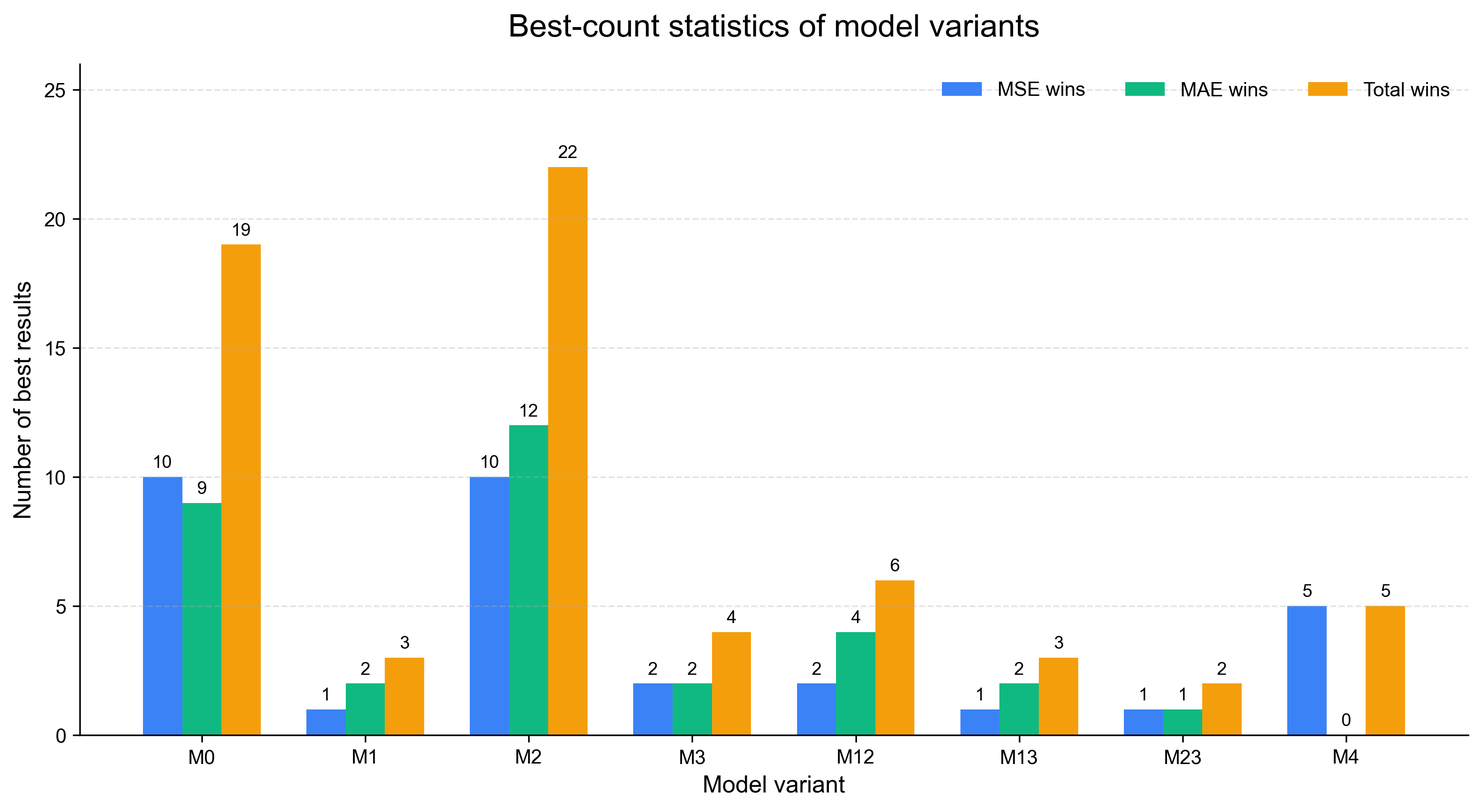
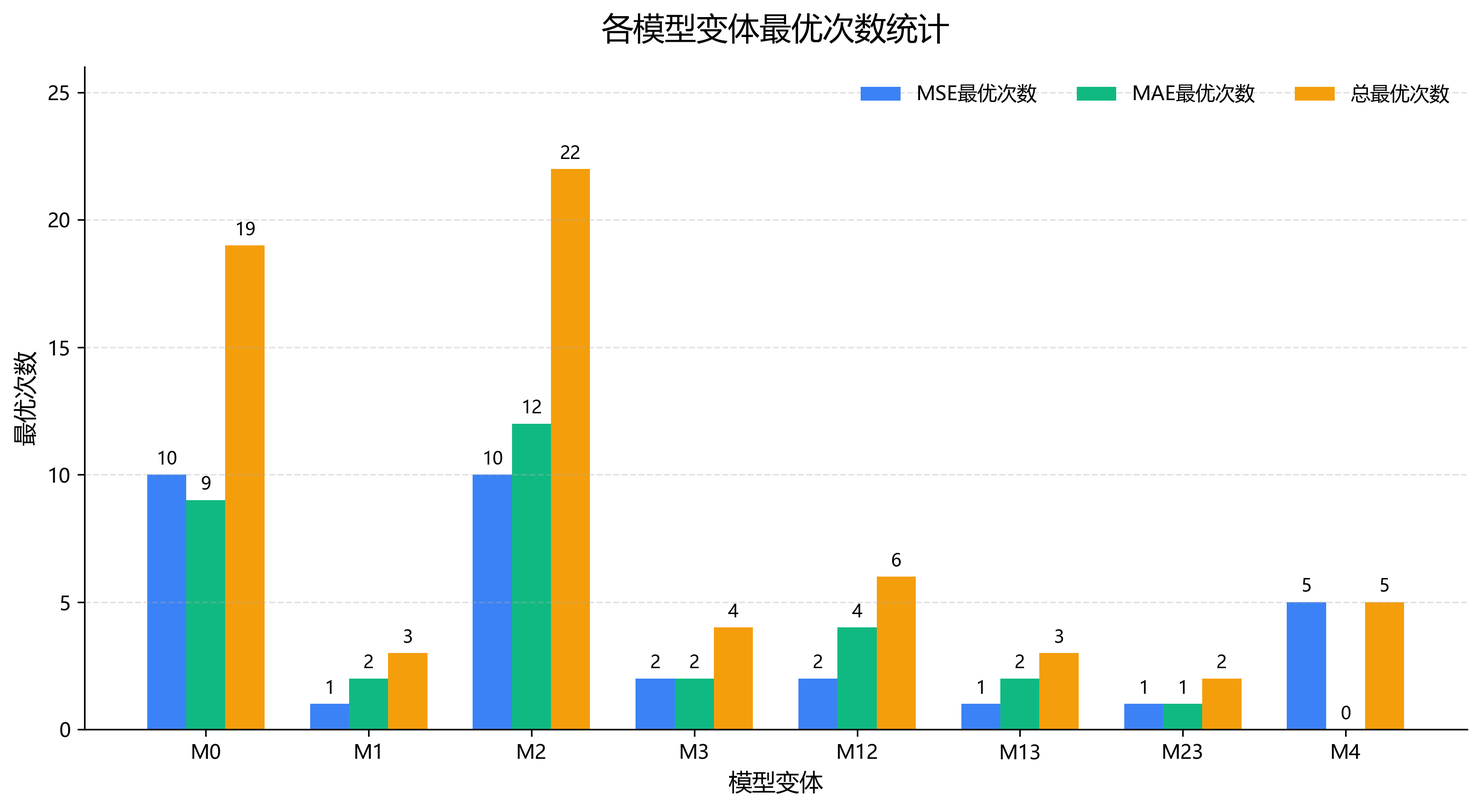
Polish thesis draft for review

diff --git a/pages/method.tex b/pages/method.tex
@@ -6,11 +6,9 @@
 \section{改进模型总体框架}
 \esection{Overall Framework}
 
-本文的改进工作以原始 TimeMixer 为基础，不重新设计一套完全不同的预测框架，而是在原有多尺度分解混合结构上进行局部增强。这样做的原因有两点：一方面，TimeMixer 本身已经具有较好的轻量化特点和多尺度建模能力；另一方面，局部改进便于通过消融实验分析每个模块的作用，更符合本科毕业设计中“实现、验证、分析”的要求。
+本文以 TimeMixer 的多尺度分解混合结构为基础，围绕下采样、序列分解和变量交互三个关键环节进行增强。该设计保留了原模型轻量化和多尺度建模的优势，同时便于在统一框架下比较不同结构模块对预测性能的影响。
 
 本文将改进方向概括为三个模块。第一个模块是深度可分离卷积下采样，记为 A，用于替代原始模型中的平均池化下采样。第二个模块是多核门控分解，记为 B，用于替代单一固定窗口的滑动平均分解。第三个模块是通道混合，记为 C，用于在通道独立建模之前引入一次变量间信息交互。三个模块分别对应原始模型中的多尺度构建、序列分解和变量处理环节。
-
-从代码实现角度看，本文尽量保持原项目结构不变。深度可分离卷积下采样模块、多核门控分解模块和通道混合模块分别接入下采样、分解和多尺度输入处理环节。三个模块均通过命令行参数控制，分别对应 \texttt{conv\_ds}、\texttt{multi\_gated} 和 \texttt{channel\_mixing} 开关。这样既避免维护多份模型代码，也方便构造不同消融变体。
 
 本文改进模型的整体流程可以概括为：首先根据下采样参数构建多尺度输入序列；随后对各尺度序列分别进行归一化，并在启用通道混合时，于通道独立拆分和嵌入之前进行一次浅层变量交互；接着在各尺度上进行趋势项和季节项分解，并通过 TimeMixer 原有的跨尺度混合结构传播不同尺度的信息；最后由未来多尺度预测融合模块得到输出结果。本文三个改进模块均嵌入在上述流程中，而不是改变预测任务的输入输出形式，因此 M0 与各改进变体之间具有较好的可比性。
 
@@ -21,20 +19,20 @@
     \label{fig:improved_framework}
 \end{figure}
 
-为便于说明论文方法与代码实现之间的对应关系，表 \ref{tab:module_code_mapping} 给出了三个改进模块的主要接入位置和控制参数。需要说明的是，表中的文件路径按照当前项目结构记录，后续如果代码目录移动，应以实际目录为准。
+表 \ref{tab:module_code_mapping} 概括了三个改进模块在模型流程中的作用。三个模块分别对应多尺度构建、趋势/季节分解和多变量输入处理三个环节，后续消融实验将围绕这些模块展开。
 
 \begin{table}[htbp]
     \centering
-    \caption{改进模块与代码实现对应关系}
+    \caption{改进模块功能对应关系}
     \label{tab:module_code_mapping}
     \resizebox{\textwidth}{!}{%
     \begin{tabular}{cccl}
         \toprule
-        模块 & 接入环节 & 控制参数 & 主要作用 \\
+        模块 & 对应环节 & 改进方式 & 主要作用 \\
         \midrule
-        深度可分离卷积下采样 & 多尺度构建 & \texttt{--down\_sampling\_method conv\_ds} & 替代平均池化下采样 \\
-        多核门控分解 & 趋势/季节分解 & \texttt{--decomp\_method multi\_gated} & 使用多窗口自适应估计趋势项 \\
-        通道混合 & 多尺度输入处理 & \texttt{--channel\_mixing 1} & 在通道独立拆分前引入变量交互 \\
+        深度可分离卷积下采样 & 多尺度构建 & 可学习卷积下采样 & 提升下采样过程的局部特征提取能力 \\
+        多核门控分解 & 趋势/季节分解 & 多窗口趋势估计与门控融合 & 增强分解模块对不同周期尺度的适应性 \\
+        通道混合 & 多变量输入处理 & 低秩残差映射 & 在通道独立建模前引入变量间信息交互 \\
         \bottomrule
     \end{tabular}}
 \end{table}
@@ -67,10 +65,11 @@
 
 原始 TimeMixer 使用滑动平均分解序列，将输入拆分为季节项和趋势项。固定窗口滑动平均可以得到较稳定的趋势估计，但窗口大小一旦确定，就难以同时兼顾短期波动和长期趋势。实际数据中，不同数据集的周期结构差异明显，即使在同一数据集中，不同时间段的变化尺度也可能不同。
 
-为增强分解模块的适应能力，本文提出多核门控分解模块。该模块并行使用多个移动平均窗口，当前旧版基准代码中窗口大小为 $(3,11,37)$。对于输入序列 $\mathbf{X}$，首先通过三个不同窗口得到趋势候选：
+为增强分解模块的适应能力，本文提出多核门控分解模块。该模块并行使用多个移动平均窗口，窗口大小为 $(3,11,37)$。对于输入序列 $\mathbf{X}$，首先通过三个不同窗口得到趋势候选：
 \begin{equation}
     \mathbf{T}_j = \mathrm{AvgPool}_{k_j}(\mathbf{X}), \quad k_j \in \{3,11,37\}.
 \end{equation}
+此处 $\mathrm{AvgPool}$ 表示步长为 1、输出长度保持不变的滑动平均操作，用于趋势提取，不用于降低时间分辨率。
 随后，模块对每个样本在时间维和变量维上求全局均值，得到样本级标量特征，并由线性层和 Softmax 生成对应的门控权重：
 \begin{equation}
     \boldsymbol{\alpha}^{(b)} = \mathrm{softmax}(\mathbf{W}\cdot \mathrm{Mean}_{T,C}(\mathbf{X}^{(b)})+\mathbf{b}),
@@ -84,7 +83,7 @@
     \mathbf{S}^{(b)} = \mathbf{X}^{(b)} - \mathbf{T}^{(b)}.
 \end{equation}
 
-该模块的特点是结构较轻，只在原有移动平均分解基础上增加了多窗口并行和一个小型门控网络。代码中门控线性层采用零初始化，使训练初期不同窗口权重接近均匀分布，从而减少对原始模型训练动态的扰动。在旧版实现中，\texttt{multi\_gated} 既用于进入编码器前的预分解，也用于 Past-Decomposable-Mixing 模块内部的分解环节。与固定单窗口相比，多核门控分解能够根据样本级输入特征调整不同尺度趋势估计的贡献，因此更适合处理周期结构复杂的数据。后续实验表明，M2 是本文表现最稳定的改进模块。
+该模块的特点是结构较轻，只在原有移动平均分解基础上增加了多窗口并行和一个小型门控网络。门控层初始化时使不同窗口权重接近均匀分布，从而减少新增模块对训练初期模型状态的扰动。与固定单窗口相比，多核门控分解能够根据样本级输入特征调整不同尺度趋势估计的贡献，因此更适合处理周期结构复杂的数据。该模块的具体效果将在第 4 章通过 M2 变体进行验证。
 
 \begin{figure}[htbp]
     \centering
@@ -102,13 +101,14 @@
 \begin{equation}
     \tilde{\mathbf{X}} = \mathbf{X} + f_{cm}(\mathbf{X}),
 \end{equation}
+实现时，该 MLP 作用在变量维度 $C$ 上，即对每个时间步的变量向量进行低秩映射。
 其中
 \begin{equation}
     f_{cm}(\mathbf{X}) = \mathbf{W}_2 \cdot \mathrm{GELU}(\mathbf{W}_1 \mathbf{X}).
 \end{equation}
-在实现中，第一层线性映射将变量维度从 \texttt{enc\_in} 降到 $\min(64,\mathrm{enc\_in})$，第二层再映射回原变量维度。这样可以在控制参数量的同时完成一次变量间信息交换。
+具体而言，第一层线性映射将变量维度从 $C$ 降到 $\min(64,C)$，第二层再映射回原变量维度。这样可以在控制参数量的同时完成一次变量间信息交换。
 
-通道混合层采用残差形式，目的是避免新增模块对原始输入造成过强扰动。代码中最后一层线性层也采用零初始化，使训练开始时该模块近似恒等映射。需要说明的是，本文通道混合只在多尺度输入进入主干前进行一次浅层交互，因此它的建模能力有限。第 4 章实验显示，该模块在部分场景中有效，但整体稳定性不如多核门控分解。
+通道混合层采用残差形式，目的是避免新增模块对原始输入造成过强扰动。初始化时，残差分支输出接近于零，使训练开始时该模块近似恒等映射。需要说明的是，本文通道混合只在多尺度输入进入主干前进行一次浅层交互，因此它的建模能力有限。第 4 章实验显示，该模块在部分场景中有效，但整体稳定性不如多核门控分解。
 
 \begin{figure}[htbp]
     \centering
@@ -120,7 +120,7 @@
 \section{模型变体与消融设计}
 \esection{Model Variants and Ablation Design}
 
-为了分析三个模块的独立贡献和组合效果，本文构造了 8 个模型变体，如表 \ref{tab:variants} 所示。其中 M0 表示本文自跑的原始 TimeMixer 基线模型，M1、M2、M3 分别表示只加入一个模块，M12、M13、M23 表示两两组合，M4 表示三个模块全部加入。
+为了分析三个模块的独立贡献和组合效果，本文构造了 8 个模型变体，如表 \ref{tab:variants} 所示。其中 M0 表示 TimeMixer 基线模型，M1、M2、M3 分别表示只加入一个模块，M12、M13、M23 表示两两组合，M4 表示三个模块全部加入。
 
 \begin{table}[htbp]
     \centering
@@ -130,7 +130,7 @@
         \toprule
         变体 & 深度可分离下采样A & 多核门控分解B & 通道混合C & 含义 \\
         \midrule
-        M0 & 否 & 否 & 否 & 自跑 TimeMixer 基线 \\
+        M0 & 否 & 否 & 否 & TimeMixer 基线 \\
         M1 & 是 & 否 & 否 & 仅替换下采样 \\
         M2 & 否 & 是 & 否 & 仅替换分解模块 \\
         M3 & 否 & 否 & 是 & 仅加入通道混合 \\

diff --git a/pages/conclusion.tex b/pages/conclusion.tex
@@ -6,23 +6,25 @@
 \section{本文工作总结}
 \esection{Summary}
 
-本文围绕时序数据预测任务，对轻量级多尺度模型 TimeMixer 进行了结构改进与实验分析。原始 TimeMixer 通过多尺度序列构建、趋势季节分解和跨尺度混合实现预测，具有较好的效率和结构优势。但通过分析其代码和模型流程可以发现，原始模型仍存在平均池化下采样可能丢失高频信息、固定窗口分解难以适应复杂周期变化、通道独立策略忽略变量间相关性等问题。
+本文围绕时序数据预测任务，对轻量级多尺度模型 TimeMixer 进行了结构改进与实验分析。原始 TimeMixer 通过多尺度序列构建、趋势季节分解和跨尺度混合实现预测，具有较好的效率和结构优势。但从模型流程和任务特点看，原始模型仍存在平均池化下采样可能丢失高频信息、固定窗口分解难以适应复杂周期变化、通道独立策略忽略变量间相关性等问题。
 
 针对上述问题，本文主要完成了三方面工作。第一，设计并实现了深度可分离卷积下采样模块，用可学习卷积替代固定平均池化，使模型在构建多尺度序列时具有一定的自适应特征选择能力。第二，设计并实现了多核门控分解模块，使用 $(3,11,37)$ 三个不同窗口并行提取趋势估计，再根据样本级全局均值特征生成门控权重并融合不同尺度结果。第三，在多尺度序列进入通道独立建模前加入低秩 MLP 形式的通道混合模块，使模型在保持轻量化的同时具备一定变量间信息交互能力。
 
-实验部分，本文构造了 M0、M1、M2、M3、M12、M13、M23 和 M4 共 8 个模型变体，在 ETTh1、ETTh2、ETTm1、ETTm2、Weather、ECL、Traffic 和 Solar 8 个公开数据集上进行实验，预测长度包括 96、192、336 和 720。其中，M0 是本文自跑的 TimeMixer 基线，M1 是只加入深度可分离卷积下采样模块的消融变体。实验结果表明，多核门控分解模块 M2 是整体最稳定的改进，在 64 个评价场景中取得 22 次最优；原始模型 M0 仍然具有较强竞争力，取得 19 次最优；深度可分离下采样和通道混合模块具有一定局部作用，但整体稳定性不足；完整模型 M4 结构最完整，但并未在所有场景下取得最优。
+实验部分，本文构造了 M0、M1、M2、M3、M12、M13、M23 和 M4 共 8 个模型变体，在 ETTh1、ETTh2、ETTm1、ETTm2、Weather、ECL、Traffic 和 Solar 8 个公开数据集上进行实验，预测长度包括 96、192、336 和 720。在固定随机种子 2021、实验重复次数为 1 的设置下，M2 在 64 个 MSE/MAE 评价项中取得 22 次最优，M0 取得 19 次，M4 取得 5 次；M1 和 M3 分别取得 3 次和 4 次最优。该结果说明，多核门控分解在本文实验中贡献最集中，而完整模型 M4 并未因包含全部模块而取得最多最优项。
 
-此外，本文还根据 TimeMixer 原论文长预测结果图整理了外部模型参考对比。外部对比部分没有使用原图中的 TimeMixer 列，而是采用本文自跑的 M0 作为 TimeMixer 基线，并与 PatchTST、Autoformer、DLinear、TimesNet、FEDformer 和 Crossformer 等模型进行平均结果比较。该部分主要用于说明本文实验结果在常见模型中的大致位置，不等同于重新公平复现所有外部模型。
+此外，本文将内部变体结果与 PatchTST、Autoformer、DLinear、TimesNet、FEDformer 和 Crossformer 等模型的公开结果进行了平均结果比较。由于外部结果的训练环境和部分实验设置不由本文统一控制，该部分仅用于观察本文结果在常见模型中的相对位置。
 
-总体来看，本文工作验证了改进分解机制对 TimeMixer 的重要性，也说明轻量级时间序列预测模型的结构改进需要通过消融实验进行具体分析。不同模块之间可能存在耦合关系，简单叠加并不一定带来稳定提升。本文的实验结论较为克制，但能够较完整地反映本次毕业设计中模型实现、实验验证、外部参考对比和应用场景分析的过程。
+总体来看，本文工作表明，改进 TimeMixer 的分解环节比单纯替换下采样或增加浅层通道混合更能集中改善本文实验中的预测结果。不同模块之间存在耦合关系，简单叠加并不一定带来更低误差；这一点也体现了完整消融实验对结构改进分析的必要性。
 
 \section{不足与展望}
 \esection{Limitations and Future Work}
 
-本文仍存在一些不足。首先，深度可分离卷积下采样模块虽然增强了下采样的学习能力，但实验结果显示其稳定性不足。对于较平滑的数据，平均池化的平滑作用可能反而更有利；对于噪声较大的数据，可学习卷积也可能保留不必要的扰动。后续可以考虑在卷积下采样中加入更明确的平滑约束，或者根据数据特征自适应选择下采样方式。
+本文仍存在一些不足。首先，深度可分离卷积下采样模块虽然增强了下采样的学习能力，但 M1 在 64 个评价项中只取得 3 次最优。对于较平滑的数据，平均池化的平滑作用可能反而更有利；对于噪声较大的数据，可学习卷积也可能保留不必要的扰动。后续可以考虑在卷积下采样中加入更明确的平滑约束，或者根据数据特征自适应选择下采样方式。
 
 其次，通道混合模块目前只在多尺度序列进入通道独立建模前进行一次浅层变量交互，表达能力有限。对于变量数较多且变量关系复杂的数据集，仅使用一个低秩 MLP 可能不足以充分建模变量之间的依赖关系。后续可以尝试分层通道混合、注意力式变量选择或图结构建模等方法，但也需要注意控制模型复杂度。
 
-再次，多核门控分解模块虽然表现最稳定，但当前窗口大小采用固定设置 $(3,11,37)$，尚未系统分析不同窗口组合对性能的影响。后续可以围绕短窗口、中窗口和长窗口组合开展参数敏感性实验，例如比较 $(3,7,15)$、$(3,11,37)$ 和 $(5,25,49)$ 等设置，以进一步说明窗口大小与数据周期结构之间的关系。
+再次，多核门控分解模块虽然在本文设置下取得最多最优项，但窗口大小仍采用固定设置 $(3,11,37)$，尚未系统分析不同窗口组合对性能的影响。后续可以围绕短窗口、中窗口和长窗口组合开展参数敏感性实验，例如比较 $(3,7,15)$、$(3,11,37)$ 和 $(5,25,49)$ 等设置，以进一步说明窗口大小与数据周期结构之间的关系。
 
-最后，本文实验主要围绕公开数据集和消融分析展开，还没有进一步分析模型参数量、训练时间和显存占用等效率指标。旧版基准代码训练过程会打印单轮训练耗时和迭代速度，但结果文件中没有保存完整的效率统计表，因此本文没有单独报告效率实验结果。由于 TimeMixer 本身强调轻量化，后续若要更全面评价改进模型，应补充参数量、训练时间、推理耗时和显存占用等对比。同时，本文外部模型对比主要基于原论文结果图整理得到，后续如果条件允许，可以在统一代码环境下重新复现更多 baseline。除此之外，还可以在更多真实业务数据上验证模型泛化能力，使研究结论更接近实际应用需求。
+此外，本文各实验设置仅在固定随机种子下运行一次，尚未统计多随机种子下的均值和方差，因此对模型稳定性的判断主要基于当前实验设置，后续可补充多次重复实验以提高结论可靠性。
+
+最后，本文实验主要围绕公开数据集和消融分析展开，对模型参数量、训练时间、推理耗时和显存占用等效率指标的系统比较仍不充分。由于 TimeMixer 本身强调轻量化，后续若要更全面评价改进模型，应在统一环境下补充效率指标对比。同时，本文外部模型对比主要基于原论文公开结果，后续如果条件允许，可以在统一实验条件下重新复现更多 baseline。除此之外，还可以在更多真实业务数据上验证模型泛化能力，使研究结论更接近实际应用需求。

diff --git a/pages/meta.tex b/pages/meta.tex
@@ -61,11 +61,11 @@
 
 本文主要完成了三个方面的工作。首先，设计了深度可分离卷积下采样模块，以可学习卷积替代固定平均池化，使模型在构建多尺度序列时能够更灵活地保留局部关键特征。其次，提出了多核门控分解模块，并行使用多个不同窗口大小的滑动平均操作提取趋势信息，再根据样本级全局均值特征生成门控权重，融合不同尺度的分解结果，以增强模型对多周期模式的适应能力。最后，引入低秩 MLP 形式的通道混合模块，在多尺度序列进入通道独立建模前进行浅层变量交互，从而在保持模型轻量化的同时增强变量间信息利用能力。
 
-实验部分在 ETTh1、ETTh2、ETTm1、ETTm2、Weather、ECL、Traffic 和 Solar 等 8 个公开数据集上进行，预测长度设置为 96、192、336 和 720，评价指标采用 MSE 和 MAE。为分析不同模块的作用，本文以自跑 TimeMixer 结果 M0 作为基线，构造了 M1、M2、M3、M12、M13、M23 和 M4 等改进变体，完成了全组合消融实验，并结合公开整理结果补充了外部模型参考对比。实验结果表明，多核门控分解模块 M2 的综合表现最稳定，在多个数据集和预测长度上取得较好结果，是本文最主要的有效改进。深度可分离下采样和通道混合模块在部分场景中具有一定效果，但整体稳定性不足。完整模型 M4 并未在所有场景下取得最优，说明不同改进模块之间存在一定耦合关系。本文工作验证了多尺度混合增强思路在时序数据预测模型改进中的作用，也为后续轻量级预测模型的结构优化和应用分析提供了参考。}
+实验部分在 ETTh1、ETTh2、ETTm1、ETTm2、Weather、ECL、Traffic 和 Solar 等 8 个公开数据集上进行，预测长度设置为 96、192、336 和 720，评价指标采用 MSE 和 MAE。为分析不同模块的作用，本文以 TimeMixer 基线模型 M0 作为对照，构造了 M1、M2、M3、M12、M13、M23 和 M4 等改进变体，完成了全组合消融实验，并引入 TimeMixer 原论文公开结果，与多类典型时序预测模型进行参考性对比。在固定随机种子 2021、实验重复次数为 1 的设置下，M2 在 64 个 MSE/MAE 评价项中取得 22 次最优，M0 取得 19 次，M4 取得 5 次。结果表明，多核门控分解对 Traffic、ECL 等周期结构较复杂的数据更有帮助；深度可分离下采样和通道混合在部分场景中取得较好结果，但跨数据集表现波动较大；完整模型 M4 并未因包含全部模块而取得最多最优项。本文工作从实验角度分析了多尺度混合增强在时序预测模型中的作用，并揭示了不同改进模块之间可能存在的耦合影响。}
 
 % 摘要，英文。段间空行
 \eabstract{Time series forecasting is an important task in data analysis and has been widely used in electric load scheduling, traffic flow management, weather forecasting, and other real-world applications. TimeMixer is a lightweight multi-scale forecasting model that achieves a good balance between prediction accuracy and computational efficiency through multi-scale decomposition and mixing. However, the original TimeMixer still has several limitations. Average pooling used in the down-sampling stage may smooth out high-frequency information, fixed-window decomposition is not flexible enough to handle complex periodic patterns, and the channel-independent strategy ignores correlations among variables. To address these issues, this thesis enhances the TimeMixer model from the perspective of multi-scale mixing and analyzes the effects of different modules through experiments.
 
 The main work of this thesis includes three parts. First, a depthwise-separable convolution down-sampling module is designed to replace fixed average pooling with learnable convolutional operations, so that the model can preserve local key features more flexibly when constructing multi-scale sequences. Second, a multi-kernel gated decomposition module is proposed. It uses multiple moving-average kernels with different window sizes in parallel and generates sample-level gating weights from the global mean feature of each input sample, thereby fusing decomposition results at different scales. Third, a low-rank MLP-based channel mixing module is introduced before channel-independent modeling of multi-scale sequences to enhance interactions among variables while maintaining the lightweight structure of the model.
 
-Experiments are conducted on eight public datasets from ETT, Weather, ECL, Traffic, and Solar. The prediction lengths are set to 96, 192, 336, and 720, and MSE and MAE are used as evaluation metrics. In this thesis, M0 denotes the TimeMixer baseline obtained in this work, while M1, M2, M3, M12, M13, M23, and M4 denote different ablation variants with one or more improvement modules. In addition to the internal ablation study, external baseline results from the reproduced results of the TimeMixer paper are used as a reference comparison, but the TimeMixer column in that file is not used; the TimeMixer baseline of this thesis is always the self-run M0 result. The experimental results show that the multi-kernel gated decomposition module, namely M2, achieves the most stable overall performance and is the most effective improvement in this work. The depthwise-separable down-sampling module and the channel mixing module are useful in some cases but are less stable across all datasets. The complete model M4 does not always achieve the best performance, indicating that there may be coupling effects among different modules. This work verifies the value of multi-scale mixing enhancement for time series forecasting models and provides a useful reference for further model optimization and application analysis.}
+Experiments are conducted on eight public datasets from ETT, Weather, ECL, Traffic, and Solar. The prediction lengths are set to 96, 192, 336, and 720, and MSE and MAE are used as evaluation metrics. In this thesis, M0 denotes the TimeMixer baseline, while M1, M2, M3, M12, M13, M23, and M4 denote different ablation variants with one or more improvement modules. Public results reported in the TimeMixer paper are further introduced as reference comparisons with several representative forecasting models. Under the setting of a fixed random seed 2021 and one experimental run, M2 obtains the best result in 22 out of 64 MSE/MAE evaluation items, while M0 and M4 obtain 19 and 5 best results, respectively. The results indicate that multi-kernel gated decomposition is more helpful for datasets with complex periodic patterns, such as Traffic and ECL. The depthwise-separable down-sampling and channel mixing modules perform well in some cases, but their results fluctuate more across datasets. The complete model M4 does not achieve the largest number of best results, suggesting possible coupling effects among the modules.}

diff --git a/pages/appendice.tex b/pages/appendice.tex
@@ -1,9 +1,14 @@
-% appendice.tex
+% appendice.tex
+
+\xjtuappendixchapter{实验环境补充说明}
+\xjtuappendixechapter{Additional Experimental Environment}
+
+本文主要实验在 AutoDL 云平台的 NVIDIA GeForce RTX 4090 D GPU 环境下完成，软件环境包括 Python 3.10.8、PyTorch 2.1.2+cu121\cite{paszke2019pytorch} 和 CUDA 12.1。GPU 显存为 24564 MiB，驱动版本为 570.124.04，操作系统内核为 Linux 5.15.0-60-generic。上述环境信息用于补充说明实验条件，正文中仅保留与结果分析直接相关的主要设置。
 
 \xjtuappendixchapter{外部模型对比明细}
 \xjtuappendixechapter{External Baseline Details}
 
-本附录给出外部模型在不同预测长度下的 MSE/MAE 明细。数据来源为 TimeMixer 原论文长预测结果图。根据本文实验口径，原图中的 TimeMixer 列不纳入本文表格；本文 TimeMixer 基线统一采用正文中的自跑 M0 结果。表中数值越低表示预测效果越好。
+本附录列出外部模型在不同预测长度下的 MSE/MAE 参考结果。相关数据来源于 TimeMixer 原论文公开结果，用于补充正文中的参考性对比。
 
 \begin{table}[htbp]
     \centering
@@ -18,7 +23,7 @@
         192 & 0.234/0.265 & 0.307/0.367 & 0.237/0.295 & 0.219/0.261 & 0.276/0.336 & 0.209/0.277 \\
         336 & 0.284/0.301 & 0.359/0.395 & 0.282/0.331 & 0.246/0.337 & 0.339/0.380 & 0.273/0.332 \\
         720 & 0.356/0.349 & 0.419/0.428 & 0.345/0.382 & 0.365/0.359 & 0.403/0.428 & 0.379/0.401 \\
-        Avg & 0.265/0.285 & 0.338/0.382 & 0.265/0.315 & 0.251/0.294 & 0.309/0.360 & 0.264/0.320 \\
+        平均 & 0.265/0.285 & 0.338/0.382 & 0.265/0.315 & 0.251/0.294 & 0.309/0.360 & 0.264/0.320 \\
         \bottomrule
     \end{tabular}}
 \end{table}
@@ -36,7 +41,7 @@
         192 & 0.288/0.332 & 0.588/0.561 & 0.320/0.398 & 0.397/0.376 & 0.291/0.337 & 0.371/0.410 \\
         336 & 0.301/0.339 & 0.595/0.588 & 0.353/0.415 & 0.420/0.380 & 0.354/0.416 & 0.495/0.515 \\
         720 & 0.295/0.336 & 0.733/0.633 & 0.357/0.413 & 0.420/0.381 & 0.380/0.437 & 0.526/0.542 \\
-        Avg & 0.287/0.333 & 0.586/0.557 & 0.330/0.401 & 0.403/0.374 & 0.328/0.383 & 0.406/0.442 \\
+        平均 & 0.287/0.333 & 0.586/0.557 & 0.330/0.401 & 0.403/0.374 & 0.328/0.383 & 0.406/0.442 \\
         \bottomrule
     \end{tabular}}
 \end{table}
@@ -54,7 +59,7 @@
         192 & 0.199/0.304 & 0.222/0.334 & 0.210/0.305 & 0.184/0.322 & 0.201/0.315 & 0.231/0.322 \\
         336 & 0.217/0.319 & 0.231/0.443 & 0.223/0.319 & 0.198/0.300 & 0.214/0.329 & 0.246/0.337 \\
         720 & 0.258/0.352 & 0.254/0.361 & 0.258/0.350 & 0.220/0.320 & 0.246/0.355 & 0.280/0.363 \\
-        Avg & 0.216/0.318 & 0.227/0.338 & 0.225/0.319 & 0.193/0.304 & 0.214/0.327 & 0.244/0.334 \\
+        平均 & 0.216/0.318 & 0.227/0.338 & 0.225/0.319 & 0.193/0.304 & 0.214/0.327 & 0.244/0.334 \\
         \bottomrule
     \end{tabular}}
 \end{table}
@@ -72,7 +77,7 @@
         192 & 0.522/0.332 & 0.616/0.382 & 0.598/0.370 & 0.617/0.336 & 0.604/0.373 & 0.665/0.431 \\
         336 & 0.517/0.334 & 0.622/0.337 & 0.605/0.373 & 0.629/0.336 & 0.621/0.383 & 0.674/0.420 \\
         720 & 0.552/0.352 & 0.660/0.408 & 0.645/0.394 & 0.640/0.350 & 0.626/0.382 & 0.683/0.424 \\
-        Avg & 0.529/0.341 & 0.628/0.379 & 0.625/0.383 & 0.620/0.336 & 0.610/0.376 & 0.667/0.426 \\
+        平均 & 0.529/0.341 & 0.628/0.379 & 0.625/0.383 & 0.620/0.336 & 0.610/0.376 & 0.667/0.426 \\
         \bottomrule
     \end{tabular}}
 \end{table}
@@ -90,7 +95,7 @@
         192 & 0.512/0.477 & 0.500/0.482 & 0.446/0.441 & 0.436/0.429 & 0.469/0.470 & 0.471/0.474 \\
         336 & 0.546/0.496 & 0.521/0.496 & 0.489/0.467 & 0.638/0.469 & 0.530/0.499 & 0.570/0.546 \\
         720 & 0.544/0.517 & 0.514/0.512 & 0.513/0.510 & 0.521/0.500 & 0.598/0.544 & 0.653/0.621 \\
-        Avg & 0.516/0.484 & 0.496/0.487 & 0.461/0.457 & 0.495/0.450 & 0.498/0.484 & 0.529/0.522 \\
+        平均 & 0.516/0.484 & 0.496/0.487 & 0.461/0.457 & 0.495/0.450 & 0.498/0.484 & 0.529/0.522 \\
         \bottomrule
     \end{tabular}}
 \end{table}
@@ -108,7 +113,7 @@
         192 & 0.393/0.405 & 0.456/0.452 & 0.482/0.479 & 0.402/0.414 & 0.429/0.439 & 0.877/0.656 \\
         336 & 0.427/0.436 & 0.482/0.486 & 0.591/0.541 & 0.452/0.452 & 0.496/0.487 & 1.043/0.731 \\
         720 & 0.436/0.450 & 0.515/0.511 & 0.839/0.661 & 0.462/0.468 & 0.463/0.474 & 1.104/0.763 \\
-        Avg & 0.391/0.411 & 0.450/0.459 & 0.563/0.519 & 0.414/0.427 & 0.437/0.449 & 0.942/0.684 \\
+        平均 & 0.391/0.411 & 0.450/0.459 & 0.563/0.519 & 0.414/0.427 & 0.437/0.449 & 0.942/0.684 \\
         \bottomrule
     \end{tabular}}
 \end{table}
@@ -126,7 +131,7 @@
         192 & 0.390/0.393 & 0.553/0.496 & 0.382/0.391 & 0.374/0.387 & 0.426/0.441 & 0.450/0.451 \\
         336 & 0.421/0.414 & 0.621/0.537 & 0.415/0.415 & 0.410/0.411 & 0.445/0.459 & 0.532/0.515 \\
         720 & 0.462/0.449 & 0.671/0.561 & 0.473/0.451 & 0.478/0.450 & 0.543/0.490 & 0.666/0.589 \\
-        Avg & 0.406/0.407 & 0.588/0.517 & 0.404/0.408 & 0.400/0.406 & 0.448/0.452 & 0.513/0.495 \\
+        平均 & 0.406/0.407 & 0.588/0.517 & 0.404/0.408 & 0.400/0.406 & 0.448/0.452 & 0.513/0.495 \\
         \bottomrule
     \end{tabular}}
 \end{table}
@@ -144,7 +149,7 @@
         192 & 0.255/0.314 & 0.281/0.340 & 0.284/0.361 & 0.249/0.309 & 0.269/0.328 & 0.414/0.492 \\
         336 & 0.309/0.347 & 0.339/0.372 & 0.382/0.429 & 0.321/0.351 & 0.325/0.366 & 0.597/0.542 \\
         720 & 0.412/0.404 & 0.433/0.432 & 0.558/0.525 & 0.408/0.403 & 0.421/0.415 & 1.730/1.042 \\
-        Avg & 0.290/0.334 & 0.327/0.371 & 0.354/0.402 & 0.291/0.333 & 0.305/0.349 & 0.757/0.610 \\
+        平均 & 0.290/0.334 & 0.327/0.371 & 0.354/0.402 & 0.291/0.333 & 0.305/0.349 & 0.757/0.610 \\
         \bottomrule
     \end{tabular}}
 \end{table}

diff --git a/pages/theory.tex b/pages/theory.tex
@@ -50,7 +50,7 @@ TimeMixer 是一种基于多尺度分解混合思想的时间序列预测模型\
 \begin{figure}[htbp]
     \centering
     \includegraphics[width=0.82\textwidth]{thesis/fig_timemixer_original_framework.png}
-    \caption{TimeMixer原始模型结构示意图}
+    \caption{TimeMixer原始模型结构示意图（改绘自文献\cite{wang2023timemixer}）}
     \label{fig:timemixer_overall}
 \end{figure}
 
@@ -63,7 +63,7 @@ TimeMixer 首先对输入序列进行多尺度处理。给定原始输入 $\math
 \end{equation}
 其中 $\mathbf{X}^{0}$ 为原始尺度，$\mathbf{X}^{i}$ 表示第 $i$ 个下采样尺度，$M$ 为下采样层数。随着尺度加深，序列长度逐渐缩短，时间分辨率降低。
 
-原始代码中默认下采样方式为平均池化。平均池化的优点是实现简单且不会引入额外参数，但它对局部窗口内的所有时间点进行等权平均。对于时序数据预测任务，这种方式能够平滑噪声，但也可能削弱局部突变。本文的第一个改进模块正是围绕这一环节展开。
+原始 TimeMixer 默认下采样方式为平均池化。平均池化的优点是实现简单且不会引入额外参数，但它对局部窗口内的所有时间点进行等权平均。对于时序数据预测任务，这种方式能够平滑噪声，但也可能削弱局部突变。本文的第一个改进模块正是围绕这一环节展开。
 
 \subsection{过去可分解混合模块}
 \esubsection{Past-Decomposable-Mixing Block}
@@ -75,8 +75,6 @@ TimeMixer 首先对输入序列进行多尺度处理。给定原始输入 $\math
 其中 $\mathbf{S}^{i}$ 为季节项，$\mathbf{T}^{i}$ 为趋势项。
 
 TimeMixer 对季节项采用自底向上的混合方式。高分辨率序列保留更多局部变化信息，因此季节项从高分辨率向低分辨率传递，有助于将细粒度波动逐步融入较粗尺度表示。相反，趋势项主要反映长期变化方向，模型采用自顶向下的混合方式，让低分辨率中的宏观趋势信息回传到高分辨率表示中。这种双向混合结构使模型能够在不使用复杂注意力机制的情况下整合多个时间尺度的信息。
-
-在代码中，季节项混合、趋势项混合和过去可分解混合分别由对应模块实现。本文提出的多核门控分解模块主要替换其中的分解环节；在旧版基准实现中，该模块也用于进入编码器前的预分解，使趋势项估计不再依赖单一固定窗口。
 
 \subsection{未来多尺度预测融合模块}
 \esubsection{Future-Multipredictor-Mixing Block}

diff --git a/pages/acknowledgements.tex b/pages/acknowledgements.tex
@@ -1,10 +1,10 @@
 % acknowledgements.tex
 
-本科毕业设计即将完成，回顾整个过程，从最开始阅读 TimeMixer 原始代码，到完成模块改进、实验整理和论文写作，我对时序数据预测模型的理解比课题开始时更加具体，也更加认识到实验验证和结果分析的重要性。
+本科毕业设计即将完成，回顾整个过程，从最开始理解 TimeMixer 模型原理，到完成模块改进、实验整理和论文写作，我对时序数据预测模型的理解比课题开始时更加具体，也更加认识到实验验证和结果分析的重要性。
 
 首先感谢指导教师王鸽老师在毕业设计过程中给予的指导和帮助。老师在选题方向、研究思路和论文写作等方面提出了许多建议，使我能够逐步明确课题目标，并在遇到实验结果不稳定、论文口径需要调整等问题时及时修正方向。
 
-感谢电子与信息学部和计算机科学与技术专业在本科阶段提供的课程训练和学习环境。相关课程中学习到的机器学习、深度学习和程序设计知识，为本课题的代码阅读、模型修改和实验分析提供了基础。
+感谢电子与信息学部和计算机科学与技术专业在本科阶段提供的课程训练和学习环境。相关课程中学习到的机器学习、深度学习和程序设计知识，为本课题的模型理解、结构修改和实验分析提供了基础。
 
 感谢同学和朋友在毕业设计过程中给予的交流和帮助。在实验运行、结果整理和论文排版过程中，与同学的讨论帮助我发现了一些容易忽视的问题，也让我在持续修改中保持耐心。
 

diff --git a/scripts/generate_ablation_wins_chart.py b/scripts/generate_ablation_wins_chart.py
@@ -28,7 +28,7 @@ def main() -> None:
 
     plt.rcParams.update(
         {
-            "font.family": "Arial",
+            "font.sans-serif": ["Microsoft YaHei", "SimHei", "Noto Sans CJK SC", "Arial Unicode MS", "DejaVu Sans"],
             "axes.unicode_minus": False,
             "figure.dpi": 160,
             "savefig.dpi": 300,
@@ -37,13 +37,13 @@ def main() -> None:
 
     fig, ax = plt.subplots(figsize=(10.5, 5.8))
 
-    bars_mse = ax.bar([i - width for i in x], df["MSEWins"], width, label="MSE wins", color="#3b82f6")
-    bars_mae = ax.bar(x, df["MAEWins"], width, label="MAE wins", color="#10b981")
-    bars_total = ax.bar([i + width for i in x], df["TotalWins"], width, label="Total wins", color="#f59e0b")
+    bars_mse = ax.bar([i - width for i in x], df["MSEWins"], width, label="MSE最优次数", color="#3b82f6")
+    bars_mae = ax.bar(x, df["MAEWins"], width, label="MAE最优次数", color="#10b981")
+    bars_total = ax.bar([i + width for i in x], df["TotalWins"], width, label="总最优次数", color="#f59e0b")
 
-    ax.set_title("Best-count statistics of model variants", fontsize=16, pad=14)
-    ax.set_xlabel("Model variant", fontsize=12)
-    ax.set_ylabel("Number of best results", fontsize=12)
+    ax.set_title("各模型变体最优次数统计", fontsize=16, pad=14)
+    ax.set_xlabel("模型变体", fontsize=12)
+    ax.set_ylabel("最优次数", fontsize=12)
     ax.set_xticks(list(x), variants)
     ax.set_ylim(0, max(df["TotalWins"]) + 4)
     ax.grid(axis="y", linestyle="--", alpha=0.35)

diff --git a/tables/main_results.tex b/tables/main_results.tex
@@ -1,12 +1,12 @@
 \begin{table}[htbp]
 \centering
-\caption{时序数据预测实验结果（MSE/MAE，数值越低越好，最优结果加粗）}
+\caption{时序数据预测实验结果（MSE/MAE，最优结果加粗）}
 \label{tab:main_results}
 \resizebox{\textwidth}{!}{%
 \begin{tabular}{cc|cc|cc|cc|cc|cc|cc|cc|cc}
 \toprule
 \multicolumn{2}{c|}{} & \multicolumn{2}{c|}{M0} & \multicolumn{2}{c|}{M1} & \multicolumn{2}{c|}{M2} & \multicolumn{2}{c|}{M3} & \multicolumn{2}{c|}{M12} & \multicolumn{2}{c|}{M13} & \multicolumn{2}{c|}{M23} & \multicolumn{2}{c|}{M4} \\
-Dataset & Pred Len & MSE & MAE & MSE & MAE & MSE & MAE & MSE & MAE & MSE & MAE & MSE & MAE & MSE & MAE & MSE & MAE \\
+数据集 & 预测长度 & MSE & MAE & MSE & MAE & MSE & MAE & MSE & MAE & MSE & MAE & MSE & MAE & MSE & MAE & MSE & MAE \\
 \midrule
 \multirow{4}{*}{ETTh1} & 96 & 0.3865 & 0.4029 & 0.3929 & 0.4086 & \textbf{0.3809} & \textbf{0.3989} & 0.4129 & 0.4180 & 0.3894 & 0.4036 & 0.3914 & 0.4147 & 0.3843 & 0.4039 & 0.4138 & 0.4191 \\
  & 192 & 0.4420 & \textbf{0.4294} & 0.4458 & 0.4349 & \textbf{0.4395} & 0.4350 & 0.4602 & 0.4476 & 0.4461 & 0.4343 & 0.4484 & 0.4388 & 0.4401 & 0.4311 & 0.4648 & 0.4462 \\
